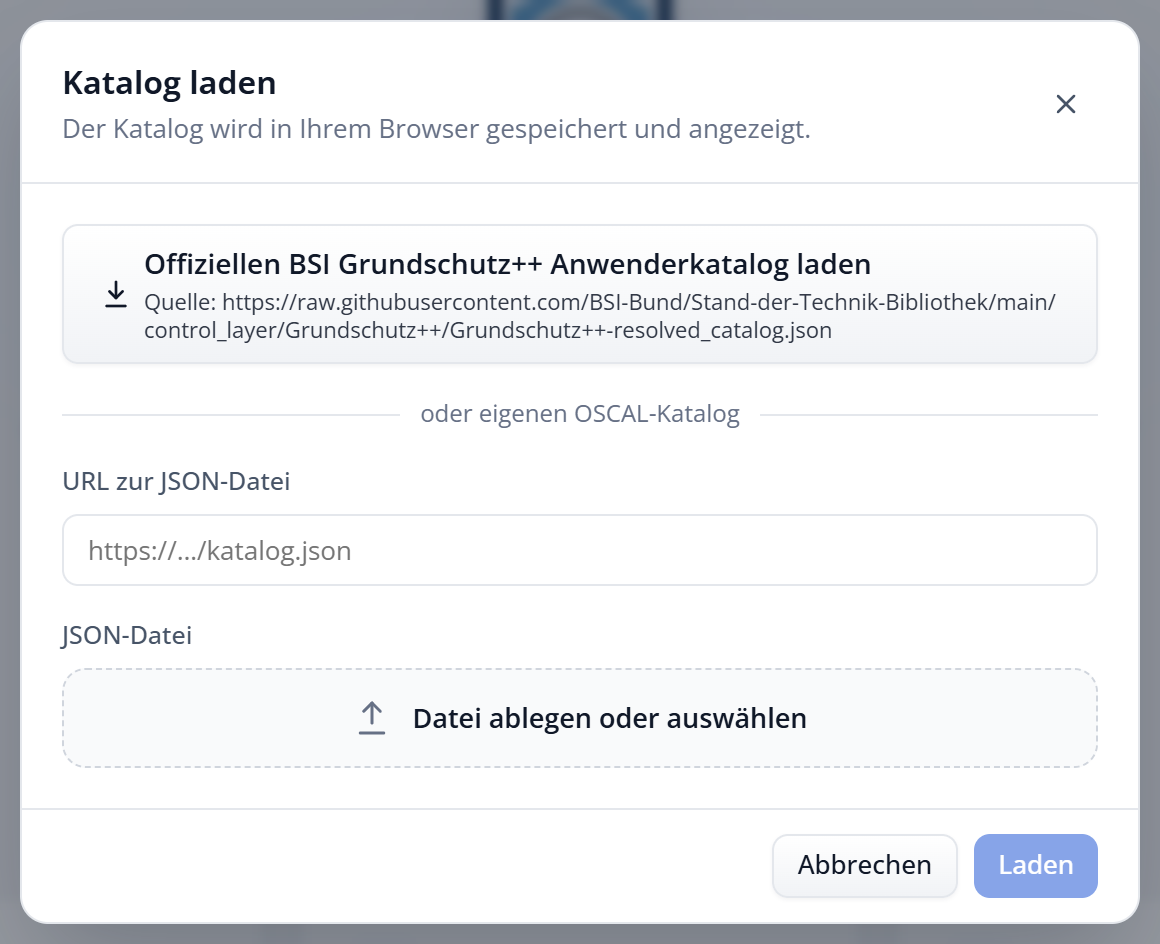
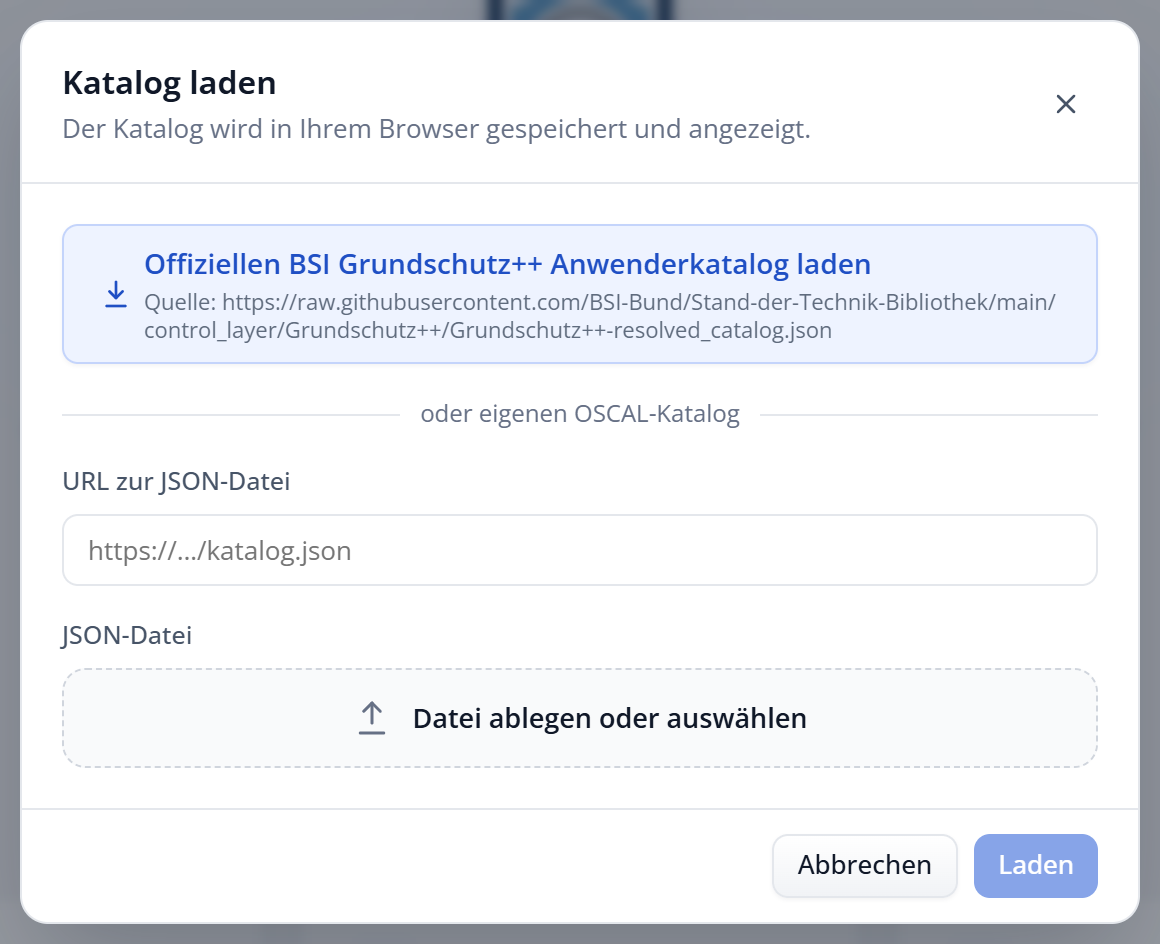
feat: update documentation, enhance list management, and add license texts for dependencies

Changed region(s): [[0.0931, 0.2458, 0.9, 0.3686]]

diff --git a/src/js/app.js b/src/js/app.js
@@ -252,11 +252,8 @@ const app = createApp({
       [...lists.value].sort((a, b) => a.name.localeCompare(b.name, 'de', { numeric: true }))
     );
     const activeList = computed(() => lists.value.find((l) => l.id === activeListId.value) || null);
-    const defaultList = computed(
-      () => lists.value.find((l) => l.name.toLocaleLowerCase('de') === DEFAULT_LIST_NAME.toLocaleLowerCase('de')) || null
-    );
-    // Ziel von Stern und Notizfeld: aktive Liste, sonst die Merkliste (id '' = wird beim ersten Schreiben angelegt)
-    const writeList = computed(() => activeList.value || defaultList.value || { id: '', name: DEFAULT_LIST_NAME });
+    // Ziel von Stern und Notizfeld: die aktive Liste; gibt es noch keine Liste, die Merkliste (wird beim ersten Schreiben angelegt)
+    const writeList = computed(() => activeList.value || { id: '', name: DEFAULT_LIST_NAME });
 
     // Anforderung → Einträge (in welchen Listen sie steht)
     const entriesByControl = computed(() => {
@@ -1174,17 +1171,11 @@ const app = createApp({
       }
     );
 
-    // Aktive Liste merken; wird sie ausgeschlossen, ist sie nicht mehr aktiv
+    // Aktive Liste merken; wird sie ausgeschlossen, wird eine andere Liste aktiv
     watch(activeListId, (id) => {
       saveSetting('active_list_id', id).catch(() => {});
     });
-    watch(
-      () => activeTags.value,
-      () => {
-        if (activeListId.value && getTagMode('list', activeListId.value) === 'exclude') activeListId.value = '';
-      },
-      { deep: true }
-    );
+    watch(() => activeTags.value, ensureActiveList, { deep: true });
     // Beim Wechsel der Anforderung ausstehende Notizen sofort speichern und wieder die aktive Liste zeigen
     watch(selectedControlId, () => {
       flushNoteSaves();
@@ -1947,7 +1938,7 @@ const app = createApp({
         listEntries.value = Object.fromEntries(storedEntries.map((e) => [e.key, e]));
         const savedActive = await getSetting('active_list_id', '');
         activeListId.value = storedLists.some((l) => l.id === savedActive) ? savedActive : '';
-        if (!activeListId.value && storedLists.length === 1) activeListId.value = storedLists[0].id;
+        ensureActiveList();
       } catch (err) {
         console.warn('Fehler beim Laden der Listen:', err);
       }
@@ -1975,11 +1966,20 @@ const app = createApp({
       navigator.storage?.persist?.().catch(() => {});
     }
 
+    // Gibt es Listen, ist immer genau eine aktiv, möglichst eine nicht ausgeschlossene.
+    // Sind alle ausgeschlossen, bleibt die bisherige aktiv.
+    function ensureActiveList() {
+      const isExcluded = (id) => getTagMode('list', id) === 'exclude';
+      const current = activeList.value;
+      if (current && !isExcluded(current.id)) return;
+      const next = sortedLists.value.find((l) => !isExcluded(l.id));
+      if (next) activeListId.value = next.id;
+      else if (!current) activeListId.value = sortedLists.value[0]?.id || '';
+    }
+
+    // Die aktive Liste lässt sich nur durch Wahl einer anderen wechseln, nicht abwählen
     function setActiveList(id) {
-      if (activeListId.value === id) {
-        activeListId.value = '';
-        return;
-      }
+      if (activeListId.value === id) return;
       // Eine ausgeschlossene Liste kann nicht zugleich aktiv sein
       if (getTagMode('list', id) === 'exclude') removeTag('list', id);
       activeListId.value = id;
@@ -2063,8 +2063,7 @@ const app = createApp({
       lists.value = lists.value.filter((l) => l.id !== list.id);
       listEntries.value = Object.fromEntries(Object.entries(listEntries.value).filter(([, e]) => e.listId !== list.id));
       removeTag('list', list.id);
-      if (activeListId.value === list.id) activeListId.value = '';
-      if (!activeListId.value && lists.value.length === 1) activeListId.value = lists.value[0].id;
+      ensureActiveList();
     }
 
     // Filter auf eine Liste (✓ / ✕), wie bei den übrigen Facetten
@@ -2104,13 +2103,10 @@ const app = createApp({
       }
     }
 
-    // Liefert die ID der Zielliste; ohne aktive Liste wird die Merkliste aktiviert bzw. angelegt
+    // Liefert die ID der Zielliste; gibt es noch keine Liste, wird die Merkliste angelegt
     function ensureWriteList() {
+      ensureActiveList();
       if (activeListId.value) return activeListId.value;
-      if (defaultList.value) {
-        activeListId.value = defaultList.value.id;
-        return activeListId.value;
-      }
       const now = new Date().toISOString();
       const list = { id: createListId(), name: DEFAULT_LIST_NAME, createdAt: now, updatedAt: now };
       lists.value = [...lists.value, list];
@@ -2283,7 +2279,7 @@ const app = createApp({
       }
       lists.value = nextLists;
       listEntries.value = nextEntries;
-      if (!activeListId.value && nextLists.length === 1) activeListId.value = nextLists[0].id;
+      ensureActiveList();
       railCollapsed.value.lists = false;
       requestPersistentStorage();
       showListNotice(

diff --git a/src/index.html b/src/index.html
@@ -259,13 +259,13 @@
                         role="radio"
                         :aria-checked="activeListId === list.id"
                         :aria-label="'Aktive Liste: ' + list.name"
-                        :title="activeListId === list.id ? 'Aktive Liste – Klicken zum Deaktivieren' : 'Als aktive Liste wählen (Stern und Notizen schreiben hierhin)'"
+                        :title="activeListId === list.id ? 'Aktive Liste für Favoriten und Notizen' : 'Als aktive Liste wählen'"
                         @click.stop="setActiveList(list.id)"
                       ><span class="list-radio-dot"></span></button>
                       <div
                         class="rail-row-main"
                         @click="setActiveList(list.id)"
-                        :title="activeListId === list.id ? 'Aktive Liste – Klicken zum Deaktivieren' : 'Als aktive Liste wählen (Stern und Notizen schreiben hierhin)'"
+                        :title="activeListId === list.id ? 'Aktive Liste für Favoriten und Notizen' : 'Als aktive Liste wählen'"
                       >
                         <span class="rail-row-label">{{ list.name }}</span>
                         <span class="rail-row-count">{{ listCounts[list.id] || 0 }}</span>
@@ -2098,11 +2098,16 @@ SOFTWARE.</pre>
             </li>
             <li>
               <strong>Vue.js</strong> – © Yuxi (Evan) You und Vue-Mitwirkende,
-              <a href="https://github.com/vuejs/core/blob/main/LICENSE" target="_blank" rel="noopener noreferrer">MIT-Lizenz</a>.
+              <a href="vendor/LICENSE-vue.txt" target="_blank" rel="noopener">MIT-Lizenz</a>.
             </li>
             <li>
               <strong>Schrift Open Sans</strong> – © The Open Sans Project Authors,
               <a href="css/fonts/OFL.txt" target="_blank" rel="noopener">SIL Open Font License 1.1</a>.
+            </li>
+            <li>
+              <strong>Symbole</strong> – teilweise nach Lucide (© Lucide Icons and Contributors, ISC-Lizenz) und
+              Feather Icons (© Cole Bemis, MIT-Lizenz),
+              <a href="vendor/LICENSE-lucide.txt" target="_blank" rel="noopener">Lizenztext</a>.
             </li>
           </ul>
         </div>

diff --git a/src/css/app.css b/src/css/app.css
@@ -1482,5 +1482,10 @@ dialog.modal::backdrop { background: rgba(16, 24, 40, 0.45); background: var(--o
 
 /* Button "Offiziellen BSI Grundschutz++ Anwenderkatalog laden" mit Quelle darunter */
 .official-btn { height: auto; min-height: 42px; padding-top: 8px; padding-bottom: 8px; white-space: normal; }
+/* Primärer Weg: in Akzentfarbe getönt, aber schwächer als der gefüllte Button "Laden" */
+.official-btn { background: var(--accent-soft); border-color: var(--accent-border); }
+.official-btn:hover:not(:disabled) { background: var(--accent-soft); border-color: var(--accent); }
+.official-btn > .icon, .official-btn-text > span { color: var(--accent-text); }
+.official-btn-text small { color: var(--text-2); }
 .official-btn-text { display: flex; flex-direction: column; align-items: flex-start; gap: 2px; min-width: 0; text-align: left; }
 .official-btn-text small { font-size: calc(11px * var(--font-scale)); font-weight: 400; opacity: 0.85; word-break: break-all; line-height: 1.35; }

diff --git a/docs/handbuch/06_listen_und_notizen.md b/docs/handbuch/06_listen_und_notizen.md
@@ -14,7 +14,7 @@ Listenbereich in der Filterleiste mit aktiver Liste, Trefferzahlen und Aktionen
 Der Abschnitt **Listen** steht ganz oben in der Filterleiste:
 
 - **Neue Liste anlegen:** Klicken Sie auf **„+ Neue Liste“**, tragen Sie einen aussagekräftigen Namen ein (z. B. *Audit 2026* oder *Entwicklungsteam*) und bestätigen Sie mit der Eingabetaste.
-- **Aktive Liste festlegen:** Klicken Sie auf den runden Auswahlknopf oder auf den Listennamen. Ein **grün leuchtender Punkt** signalisiert, dass diese Liste aktiv ist. Stern-Klicks und geschriebene Notizen beziehen sich stets auf die aktive Liste (es kann immer nur eine Liste aktiv sein).
+- **Aktive Liste festlegen:** Klicken Sie auf den runden Auswahlknopf oder auf den Listennamen. Ein **grün leuchtender Punkt** signalisiert, dass diese Liste aktiv ist. Stern-Klicks und geschriebene Notizen beziehen sich stets auf die aktive Liste. Sobald Listen bestehen, ist immer genau eine davon aktiv; Sie wechseln sie, indem Sie eine andere Liste wählen.
 - **Listenmenü (Drei Punkte):** Über das Symbol **···** rechts neben dem Listennamen können Sie eine Liste umbenennen, einzeln als JSON exportieren oder löschen.
 
 ## Listen als Filter nutzen
@@ -24,7 +24,7 @@ Listen verhalten sich in der Filterleiste wie jede andere Facette:
 - **✓ (Nur diese Liste):** Schränkt die Trefferliste auf die Anforderungen dieser Liste ein.
 - **✕ (Liste ausschließen):** Blendet alle Anforderungen aus, die in dieser Liste stehen.
 - **Kombinationen:** Mehrere Listen mit **✓** zeigen alle Anforderungen, die in mindestens einer dieser Listen vorkommen (ODER-Verknüpfung).
-- **Ausschluss der aktiven Liste:** Schließen Sie eine derzeit aktive Liste mit **✕** aus, wird sie automatisch deaktiviert.
+- **Ausschluss der aktiven Liste:** Schließen Sie die aktive Liste mit **✕** aus, wird automatisch eine andere, nicht ausgeschlossene Liste aktiv. Sind alle Listen ausgeschlossen, bleibt die bisherige aktiv.
 
 ## Anforderungen in Listen aufnehmen (Stern-Symbol)
 
@@ -35,7 +35,7 @@ Im Kopf der Detailansicht jeder Anforderung befindet sich rechts neben dem Titel
 - **Leerer Stern (Umriss):** Die Anforderung ist in noch keiner Liste hinterlegt. Ein Klick nimmt sie in die aktive Liste auf.
 
 > [!TIP]
-> Ist keine Liste als aktiv ausgewählt und Sie klicken auf einen Stern, legt der Explorer automatisch die Liste **Merkliste** an, aktiviert diese und fügt die Anforderung dort ein.
+> Gibt es noch keine Liste und Sie klicken auf einen Stern oder schreiben eine Notiz, legt der Explorer automatisch die Liste **Merkliste** an, aktiviert diese und fügt die Anforderung dort ein.
 
 Auch in der mittleren Trefferliste signalisiert das Stern-Symbol auf einen Blick, ob eine Anforderung zu einer Liste gehört.
 

diff --git a/docs/handbuch/c_datenquellen.md b/docs/handbuch/c_datenquellen.md
@@ -17,10 +17,30 @@ Die Inhalte der Stand-der-Technik-Bibliothek stehen unter der Lizenz **Creative 
 
 ## Verwendete Komponenten
 
-| Komponente | Rechteinhaber | Lizenz | Quelle |
-| :--- | :--- | :--- | :--- |
-| **Vue.js** | © Yuxi (Evan) You und Vue-Mitwirkende | MIT-Lizenz | `https://github.com/vuejs/core` |
-| **Schrift Open Sans** | © The Open Sans Project Authors | SIL Open Font License 1.1 | `https://github.com/googlefonts/opensans` |
+### Vue.js
+
+JavaScript-Framework, auf dem die Oberfläche des Explorers aufbaut. Es wird mit der Anwendung ausgeliefert und nicht von einem fremden Server geladen.
+
+| Rechteinhaber | Lizenz | Quelle |
+| :--- | :--- | :--- |
+| © Yuxi (Evan) You und Vue-Mitwirkende | MIT-Lizenz | `https://github.com/vuejs/core` |
+
+### Schrift Open Sans
+
+Schriftart der Oberfläche. Sie wird mit der Anwendung ausgeliefert und nicht von einem Schriftdienst geladen.
+
+| Rechteinhaber | Lizenz | Quelle |
+| :--- | :--- | :--- |
+| © The Open Sans Project Authors | SIL Open Font License 1.1 | `https://github.com/googlefonts/opensans` |
+
+### Symbole
+
+Die Symbole der Oberfläche sind direkt in die Anwendung eingebettet. Ein Teil davon entspricht Symbolen aus Lucide bzw. dem Vorgängerprojekt Feather Icons.
+
+| Rechteinhaber | Lizenz | Quelle |
+| :--- | :--- | :--- |
+| © Lucide Icons and Contributors | ISC-Lizenz | `https://github.com/lucide-icons/lucide` |
+| © Cole Bemis (Feather Icons) | MIT-Lizenz | `https://github.com/feathericons/feather` |
 
 ## Der Grundschutz++ Explorer
 

diff --git a/CHANGELOG.md b/CHANGELOG.md
@@ -2,6 +2,13 @@
 
 Alle nennenswerten Änderungen am Grundschutz++ Explorer.
 
+## [Unreleased]
+
+### Geändert
+
+- Sobald Listen bestehen, ist immer genau eine aktiv. Die aktive Liste lässt sich nicht mehr abwählen, nur durch Wahl einer anderen wechseln; wird sie gelöscht oder mit ✕ ausgeschlossen, wird eine andere Liste aktiv. Bisher blieb nach dem Abwählen der Merkliste deren Stern gelb, obwohl keine Liste aktiv war.
+- Lizenz-Dialog, README und Handbuch nennen die Herkunft der Symbole (teilweise nach Lucide und Feather Icons); der Lizenztext liegt unter `vendor/LICENSE-lucide.txt`. Auch der Lizenztext von Vue.js wird jetzt mitgeliefert (`vendor/LICENSE-vue.txt`) und ist im Lizenz-Dialog und im README verlinkt.
+
 ## [1.1.0] – 2026-09-26
 
 ### Neu

diff --git a/README.md b/README.md
@@ -38,4 +38,9 @@ Fehlermeldungen und Vorschläge sind als Issue willkommen, Pull Requests werden 
 ## Lizenz
 
 © 2026 Frank Winter – [MIT-Lizenz](LICENSE).
-Die Schrift Open Sans steht unter der SIL Open Font License 1.1, Vue.js unter der MIT-Lizenz.
+
+Verwendete Komponenten:
+
+- **Vue.js** – MIT-Lizenz ([LICENSE-vue.txt](src/vendor/LICENSE-vue.txt))
+- **Schrift Open Sans** – SIL Open Font License 1.1 ([OFL.txt](src/css/fonts/OFL.txt))
+- **Symbole** – teilweise nach [Lucide](https://lucide.dev) (ISC-Lizenz) und [Feather Icons](https://feathericons.com) (MIT-Lizenz) ([LICENSE-lucide.txt](src/vendor/LICENSE-lucide.txt))
